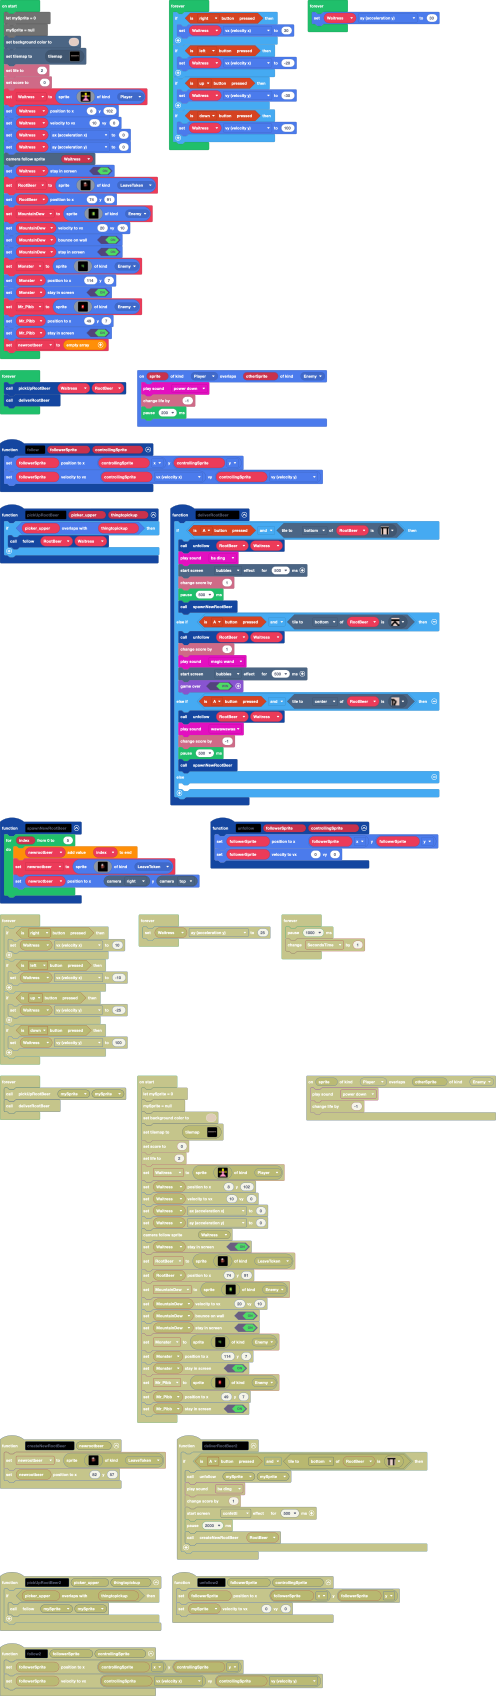
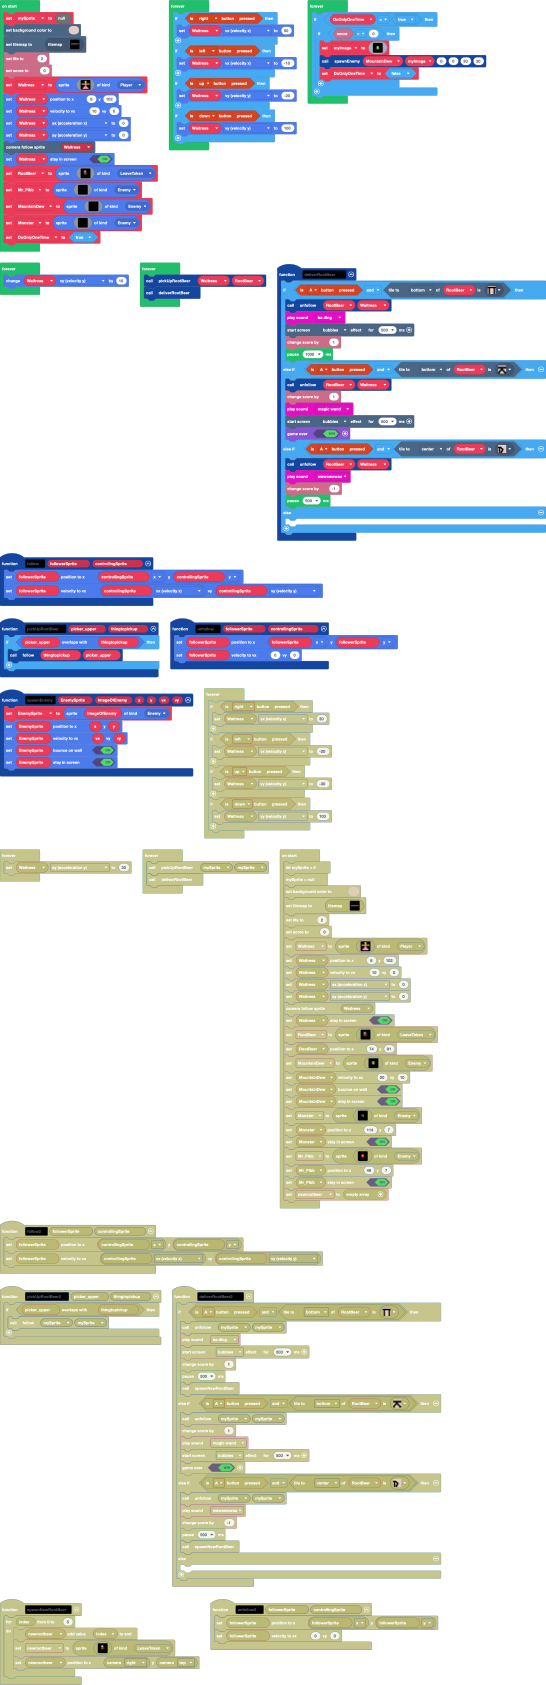
about to work on Spawn Rootbeer, still a few problems with spawn Enemy but stable

diff --git a/main.ts b/main.ts
@@ -8,8 +8,7 @@ function deliverRootBeer () {
         music.baDing.play()
         effects.bubbles.startScreenEffect(500)
         info.changeScoreBy(1)
-        pause(500)
-        spawnNewRootBeer()
+        pause(1000)
     } else if (controller.A.isPressed() && RootBeer.tileKindAt(TileDirection.Bottom, assets.tile`Endtable`)) {
         unfollow(RootBeer, Waitress)
         info.changeScoreBy(1)
@@ -21,7 +20,6 @@ function deliverRootBeer () {
         music.wawawawaa.play()
         info.changeScoreBy(-1)
         pause(500)
-        spawnNewRootBeer()
     } else {
     	
     }
@@ -32,30 +30,30 @@ function unfollow (followerSprite: Sprite, controllingSprite: Sprite) {
 }
 function pickUpRootBeer (picker_upper: Sprite, thingtopickup: Sprite) {
     if (picker_upper.overlapsWith(thingtopickup)) {
-        follow(RootBeer, Waitress)
+        follow(thingtopickup, picker_upper)
     }
 }
 function follow (followerSprite: Sprite, controllingSprite: Sprite) {
     followerSprite.setPosition(controllingSprite.x, controllingSprite.y)
     followerSprite.setVelocity(controllingSprite.vx, controllingSprite.vy)
 }
-function spawnNewRootBeer () {
-    for (let index = 0; index <= 5; index++) {
-        newrootbeer.push(index)
-        newrootbeer = sprites.create(assets.image`RootBeer`, SpriteKind.LeaveToken)
-        newrootbeer.setPosition(scene.cameraProperty(CameraProperty.Right), scene.cameraProperty(CameraProperty.Top))
-    }
+function spawnEnemy (EnemySprite: Sprite, ImageOfEnemy: Image, x: number, y: number, vx: number, vy: number) {
+    EnemySprite = sprites.create(ImageOfEnemy, SpriteKind.Enemy)
+    EnemySprite.setPosition(x, y)
+    EnemySprite.setVelocity(vx, vy)
+    EnemySprite.setBounceOnWall(true)
+    EnemySprite.setStayInScreen(true)
 }
 sprites.onOverlap(SpriteKind.Player, SpriteKind.Enemy, function (sprite, otherSprite) {
     music.powerDown.play()
     info.changeLifeBy(-1)
     pause(200)
 })
-let newrootbeer: number[] = []
+let myImage: Image = null
+let EnemySprite: Sprite = null
 let RootBeer: Sprite = null
 let Waitress: Sprite = null
-let mySprite = 0
-mySprite = null
+let mySprite = null
 scene.setBackgroundColor(13)
 tiles.setCurrentTilemap(tilemap`Level1Map`)
 info.setLife(2)
@@ -85,34 +83,86 @@ Waitress.ay = 0
 scene.cameraFollowSprite(Waitress)
 Waitress.setStayInScreen(true)
 RootBeer = sprites.create(assets.image`RootBeer`, SpriteKind.LeaveToken)
-RootBeer.setPosition(74, 91)
-let MountainDew = sprites.create(assets.image`MtnDew`, SpriteKind.Enemy)
-MountainDew.setVelocity(20, 10)
-MountainDew.setBounceOnWall(true)
-MountainDew.setStayInScreen(true)
-let Monster = sprites.create(assets.image`Monster`, SpriteKind.Enemy)
-Monster.setPosition(114, 7)
-Monster.setStayInScreen(true)
-let Mr_Pibb = sprites.create(assets.image`Mr Pibb`, SpriteKind.Enemy)
-Mr_Pibb.setPosition(49, 7)
-Mr_Pibb.setStayInScreen(true)
-newrootbeer = []
+let Mr_Pibb = sprites.create(img`
+    . . . . . . . . . . . . . . . . 
+    . . . . . . . . . . . . . . . . 
+    . . . . . . . . . . . . . . . . 
+    . . . . . . . . . . . . . . . . 
+    . . . . . . . . . . . . . . . . 
+    . . . . . . . . . . . . . . . . 
+    . . . . . . . . . . . . . . . . 
+    . . . . . . . . . . . . . . . . 
+    . . . . . . . . . . . . . . . . 
+    . . . . . . . . . . . . . . . . 
+    . . . . . . . . . . . . . . . . 
+    . . . . . . . . . . . . . . . . 
+    . . . . . . . . . . . . . . . . 
+    . . . . . . . . . . . . . . . . 
+    . . . . . . . . . . . . . . . . 
+    . . . . . . . . . . . . . . . . 
+    `, SpriteKind.Enemy)
+let MountainDew = sprites.create(img`
+    . . . . . . . . . . . . . . . . 
+    . . . . . . . . . . . . . . . . 
+    . . . . . . . . . . . . . . . . 
+    . . . . . . . . . . . . . . . . 
+    . . . . . . . . . . . . . . . . 
+    . . . . . . . . . . . . . . . . 
+    . . . . . . . . . . . . . . . . 
+    . . . . . . . . . . . . . . . . 
+    . . . . . . . . . . . . . . . . 
+    . . . . . . . . . . . . . . . . 
+    . . . . . . . . . . . . . . . . 
+    . . . . . . . . . . . . . . . . 
+    . . . . . . . . . . . . . . . . 
+    . . . . . . . . . . . . . . . . 
+    . . . . . . . . . . . . . . . . 
+    . . . . . . . . . . . . . . . . 
+    `, SpriteKind.Enemy)
+let Monster = sprites.create(img`
+    . . . . . . . . . . . . . . . . 
+    . . . . . . . . . . . . . . . . 
+    . . . . . . . . . . . . . . . . 
+    . . . . . . . . . . . . . . . . 
+    . . . . . . . . . . . . . . . . 
+    . . . . . . . . . . . . . . . . 
+    . . . . . . . . . . . . . . . . 
+    . . . . . . . . . . . . . . . . 
+    . . . . . . . . . . . . . . . . 
+    . . . . . . . . . . . . . . . . 
+    . . . . . . . . . . . . . . . . 
+    . . . . . . . . . . . . . . . . 
+    . . . . . . . . . . . . . . . . 
+    . . . . . . . . . . . . . . . . 
+    . . . . . . . . . . . . . . . . 
+    . . . . . . . . . . . . . . . . 
+    `, SpriteKind.Enemy)
+let DoOnlyOneTime = true
 forever(function () {
     if (controller.right.isPressed()) {
-        Waitress.vx = 30
+        Waitress.vx = 50
     }
     if (controller.left.isPressed()) {
-        Waitress.vx = -20
+        Waitress.vx = -10
     }
     if (controller.up.isPressed()) {
-        Waitress.vy = -30
+        Waitress.vy = -20
     }
     if (controller.down.isPressed()) {
         Waitress.vy = 100
     }
 })
 forever(function () {
-    Waitress.ay = 30
+    if (DoOnlyOneTime == true) {
+        if (info.score() == 0) {
+            myImage = assets.image`MtnDew`
+            spawnEnemy(MountainDew, myImage, 0, 0, 30, 30)
+            DoOnlyOneTime = false
+        }
+    }
+})
+forever(function () {
+    Waitress.vy += 10
 })
 forever(function () {
     pickUpRootBeer(Waitress, RootBeer)

diff --git a/tilemap.g.ts b/tilemap.g.ts
@@ -26,6 +26,25 @@ namespace myTiles {
 ...............2....2.........2.........2....222222222222..2
 222222222222222222222222222222222222222222222222222222222222
 `, [myTiles.transparency16,myTiles.tile2,myTiles.tile3,myTiles.tile1,myTiles.tile4,myTiles.tile5], TileScale.Sixteen);
+            case "level2":
+            case "level2":return tiles.createTilemap(hex`1000100000000000000000000000000000000000000000000000000000000000000000000000000000000000000000000000000000000000000000000000000000000000000000000000000000000000000000000000000000000000000000000000000000000000000000000000000000000000000000000000000000000000000000000000000000000000000000000000000000000000000000000000000000000000000000000000000000000000000000000000000000000000000000000000000000000000000000000000000000000000000000000000000000000000000000000000000000000000000000000000000000000000000000000000000000000000`, img`
+. . . . . . . . . . . . . . . . 
+. . . . . . . . . . . . . . . . 
+. . . . . . . . . . . . . . . . 
+. . . . . . . . . . . . . . . . 
+. . . . . . . . . . . . . . . . 
+. . . . . . . . . . . . . . . . 
+. . . . . . . . . . . . . . . . 
+. . . . . . . . . . . . . . . . 
+. . . . . . . . . . . . . . . . 
+. . . . . . . . . . . . . . . . 
+. . . . . . . . . . . . . . . . 
+. . . . . . . . . . . . . . . . 
+. . . . . . . . . . . . . . . . 
+. . . . . . . . . . . . . . . . 
+. . . . . . . . . . . . . . . . 
+. . . . . . . . . . . . . . . . 
+`, [myTiles.transparency16], TileScale.Sixteen);
         }
         return null;
     })

diff --git a/images.g.ts b/images.g.ts
@@ -80,7 +80,7 @@ namespace myImages {
 . . . . . . . . . . . . . . . . 
 `;
             case "image4":
-            case "Mr Pibb":return img`
+            case "MrPibb":return img`
 . . . . . . . . . . . . . . . . 
 . . . . . . . . . . . . . . . . 
 . . . . . . . . . . . . . . . . 
